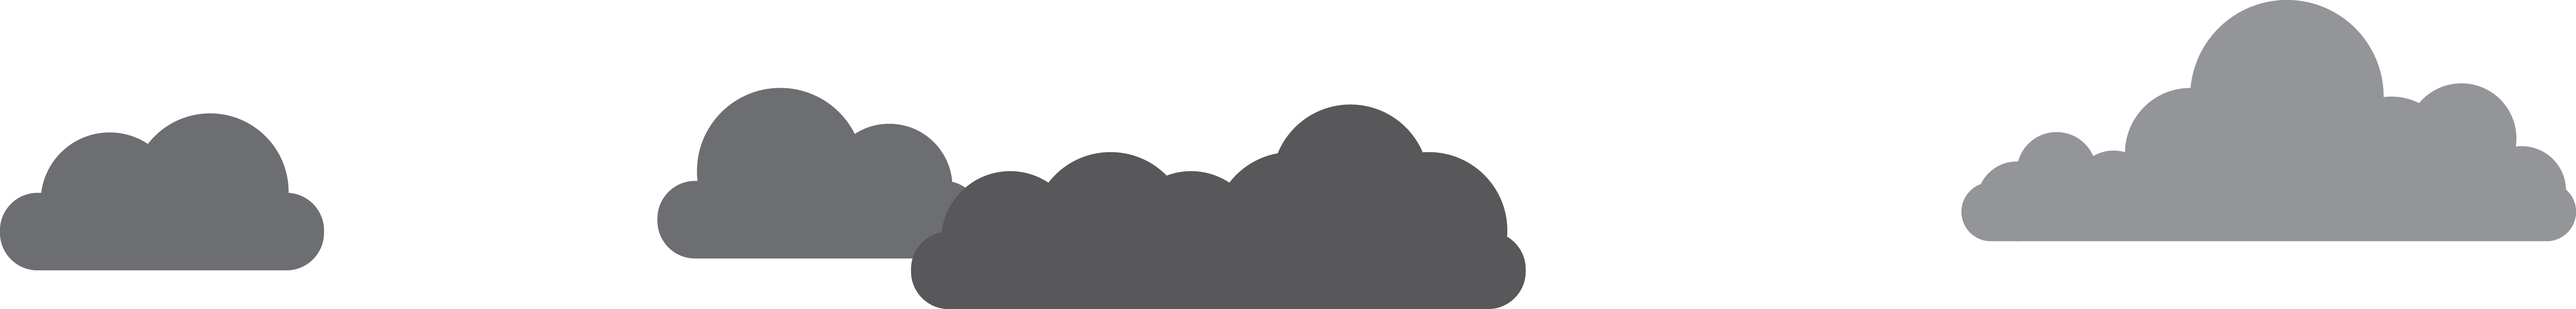
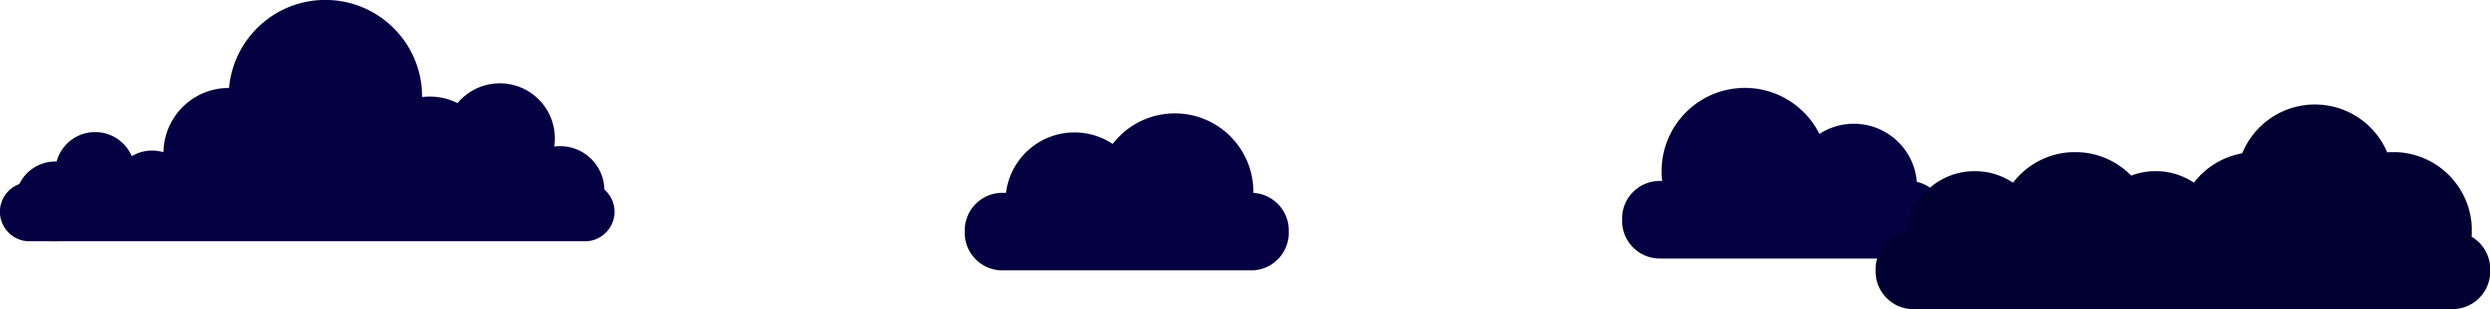
Update background images

diff --git a/app/styles/slide_styles.js b/app/styles/slide_styles.js
@@ -5,14 +5,12 @@ export const slideStyles = StyleSheet.create({
     flex: 1,
     flexDirection: 'column',
     justifyContent: 'space-around',
-    backgroundColor: '#0068FF',
     padding: 30,
   },
   innerContainer: {
     flex: 1,
     justifyContent: 'center',
     alignItems: 'stretch',
-    backgroundColor: '#0068FF',
     padding: 30
   },
   logo: {
@@ -22,10 +20,10 @@ export const slideStyles = StyleSheet.create({
     margin: 10,
   },
   text: {
-    fontSize: 20,
+    fontSize: 24,
     textAlign: 'center',
     color: '#FFFFFF',
-    margin: 10,
+    margin: 10
   },
   data: {
     fontSize: 20,
@@ -43,5 +41,15 @@ export const slideStyles = StyleSheet.create({
     bottom: 20,
     left: 75,
     right: 75
+  },
+  backgroundView: {
+    position: 'absolute',
+    left: 30,
+    right: 30,
+    top: 275,
+    bottom: 275,
+    backgroundColor: '#000000',
+    opacity: 0.7,
+    borderRadius: 5
   }
 });

diff --git a/app/components/backgrounds/clouds.js b/app/components/backgrounds/clouds.js
@@ -25,7 +25,7 @@ class Black extends React.Component {
       this.state.fadeAnim,            // The animated value to drive
       {
         toValue: -1500,                   // Animate to opacity: 1 (opaque)
-        duration: 900000,              // Make it take a while
+        duration: 100000,              // Make it take a while
         easing: Easing.linear
       }
     ).start();                        // Starts the animation

diff --git a/app/components/intro/slide2.js b/app/components/intro/slide2.js
@@ -16,6 +16,7 @@ class Slide2 extends React.Component {
   render() {
     return (
       <View style={slideStyles.container}>
+        <View style={slideStyles.backgroundView}></View>
         <Text
           style={slideStyles.text}
           >This app reminds you to drink water.</Text>

diff --git a/app/components/intro/slide3.js b/app/components/intro/slide3.js
@@ -16,6 +16,7 @@ class Slide3 extends React.Component {
   render() {
     return (
       <View style={slideStyles.container}>
+        <View style={slideStyles.backgroundView}></View>
         <Text
           style={slideStyles.text}
           >On the next page, you can set up your own

diff --git a/app/components/intro/slide1.js b/app/components/intro/slide1.js
@@ -16,6 +16,7 @@ class Slide1 extends React.Component {
   render() {
     return (
       <View style={slideStyles.container}>
+        <View style={slideStyles.backgroundView}></View>
         <Text
           style={slideStyles.text}
           >Hi! Welcome to Hydrate.</Text>

diff --git a/app/styles/background_styles.js b/app/styles/background_styles.js
@@ -33,8 +33,8 @@ export const backgroundStyles = StyleSheet.create({
     position: 'absolute',
     left: 0,
     right: 0,
-    top: 0,
-    bottom: 500,
+    top: 30,
+    bottom: 470,
     justifyContent: 'flex-start',
     flexDirection: 'column',
     overflow: 'visible'
